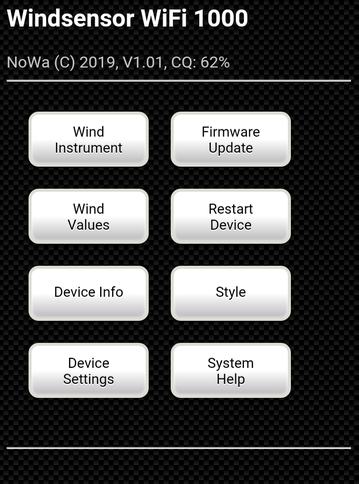
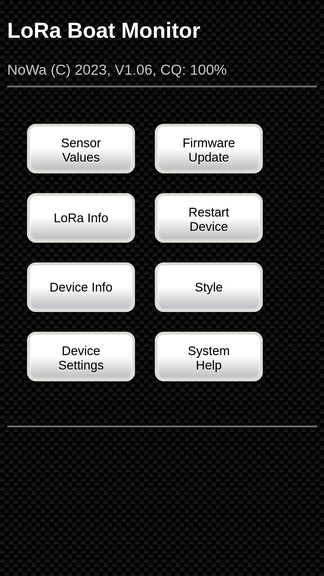
New online doku for V1.06

diff --git a/docs/public/index_V1.06.html b/docs/public/index_V1.06.html
@@ -3,7 +3,7 @@
 <head>
 <title>LoRa Boat Monitor</title>
 <link rel="shortcut icon" type="image/x-icon" href="./favicon.ico">
-<link rel="stylesheet" type="text/css" href="https://norbertwalter67.gitlab.io/plain-html/style.css">
+<link rel="stylesheet" type="text/css" href="https://norbert-walter.github.io/LoRa-Boat-Monitor/public/style.css">
 <meta http-equiv="content-type" content="text/html; charset=UTF-8">
 <meta name=viewport content="width=device-width, initial-scale=1">
 <style>table,th, td {padding: 5px;}</style>
@@ -11,39 +11,89 @@
 <body>
 <h2>LoRa Boat Monitor</h2>NoWa (C) 2021, V1.06
 <hr align="left">
-<h3>LoRa Boat Monitor Documentation</h3>
-For proper operation the Windsensor requires a web browser with HTML5, JavaScript and Canvas, as supported by all actual browsers. Please check  browser security settings in case of malfuntions.
-<h3>Main Page</h3>
+<h2>LoRa Boat Monitor Documentation</h2>
+For proper operation the LoRa boat monitor requires a web browser with HTML5, JavaScript and Canvas, as supported by all actual browsers. Please check  browser security settings in case of malfuntions.
+<h2>Main Page</h2>
 The main page provides buttons to access sub pages serving different purposes. The status bar displays copyright, version number and WLAN connection quality in percent.
 <br><br><img src="pictures_V1.06/Main.png" alt="Main Page">
-<h3>Wind Instrument</h3>
-This page displays the simple Windsensor instrument type with a wind direction pointer. Inside the circle live values are shown. To change windspeed unit and down wind area (gray bottom area) refer to the Device Settings page. The user may choose between two instrument layouts (see Settings). Both instrument designs are stored in the device's memory.
-<br><br><img src="pictures_V1.06/Instrument1.png" alt="Wind Instrument">
-<br><br>The complex wind sensor instrument type for relative winds with a beautified surface looks like this:
-<br><br><img src="pictures_V1.06/Instrument2.png" alt="Complex Wind Instrument Picture">
+<h3>Sensor Value</h3>
+This page shows all readings from the sensors. Depending on which sensors are active, the number of measured values displayed may vary.
+<br><br><img src="pictures_V1.06/Sensor_Value_1.png" alt="Sensor Values">
 
-<br><br>For true winds change the design of instrument:
-<br><br><img src="pictures_V1.06/Instrument3.png" alt="Complex Wind Instrument Picture">
+<h4>Environment</h4>
+This shows all values from BME280 environment sensor.
+<br><br><b>Temp:</b> Air temperature in °C or K
+<br><br><b>Press:</b> Air pressure in mbar
+<br><br><b>Hum:</b> Air humidity in %
+<br><br><b>Dew:</b> Dewpoint in °C or K
 
-<h3>Wind Values</h3>
-This screen displays apparent wind angle (AWA) and apparent windspeed values (AWS).
-<br><br><img src="pictures_V1.06/Value.png" alt="Wind Values">
-<h3>Device Info</h3>
-This screen provides an overview of all relevant Windsensor's data grouped in different sections.
-<br><br><img src="pictures_V1.06/Info1.png" alt="Info Page">
-<br><br><img src="pictures_V1.06/Info2.png" alt="Info Page">
+<h4>Position Speed Course</h4>
+<b>Lat:</b> Latitude geographic position
+<br><br><b>Lon:</b> Longitude geographic position
+<br><br><b>Alt:</b> Altitude on geographic position
+<br><br><b>Spd:</b> Speed in kn
+<br><br><b>Crs:</b> Course in degree
+
+<br><br><img src="pictures_V1.06/Sensor_Value_2.png" alt="Sensor Values">
+
+<h4>Date Time Daylight</h4>
+<b>Date:</b> Date of day
+<br><br><b>Time:</b> Actual time
+<br><br><b>Sunrise:</b> Sunrise of day
+<br><br><b>Sunset:</b> Sunset of day
+
+<h4>Battery</h4>
+<b>Volt:</b> Actual voltage in V
+<br><br><b>Cap:</b> Current level of the battery
+<br><br><b>Temp:</b> Battery temperature measured with a 1Wire sensor DS18B120
+
+<h4>Levels</h4>
+Tank levels of water and fuel measured with a 180 ohm level sensor.
+<br><br><b>Water:</b> Water level in %
+<br><br><b>Fuel:</b> Fuel level in %
+
+<br><br><img src="pictures_V1.06/Sensor_Value_3.png" alt="Sensor Values">
+
+<h4>Control</h4>
+<b>Alarm:</b> Status alarm input on/off
+<br><br><b>Relay:</b> Status relay input on/off
+<br><br><b>OnTime:</b> Duration of switching on
+
+
+<h2>LoRa Info</h2>
+This screen displays actual LoRa values.
+<br><br><img src="pictures_V1.06/LoRa_Info.png" alt="LoRa Info">
+
+<h4>LoRa Info</h4>
+<b>Freq Region:</b> Frequency region in which LoRa is used. Depending on the geographical region, different frequencies and transmission schemes are used.
+<br><br><b>Device Addr:</b> Device address of the LoRa boat monitor.
+<br><br><b>Actual Chan:</b> Actual used LoRa channel (1...8)
+<br><br><b>Actual SF:</b> Actual used spreading factor for LoRa signal (7...12)
+<br><br><b>TX Interval:</b> Transmit interval for LoRa telegrams in s
+<br><br><b>Time Slot:</b> The transmission of LoRa telegrams is divided into 12 time slots. The time slot in which the transmission is currently active is displayed here. Depending on the operating mode, different spreading factors are used for each time slot.
+<br><br><b>TX Counter:</b> Transmission counter since the start of the LoRa boat monitor. This counter is transmitted to the LoRa network. This can be used to detect whether telegrams have been lost. After a device restart, the counter is reset.
+
+
+<h2>Device Info</h2>
+This screen provides an overview of all relevant LoRa boat monitor data grouped in different sections.
+<br><br><img src="pictures_V1.06/Device_Info_1.png" alt="Device Info">
 <br>
+
 <h4>Firmware Information</h4>
 <b>Firmware Version</b> Version of ESP8266 real time kernel.
 <br><br><b>License Type</b> CC-BY-NC-ND.
-<h4>ESP8266 Informations:</h4>
+<h4>ESP32 Informations:</h4>
 <b>SDK Version:</b> Version of software development kit used to build the ESP8266 real time kernel.
-<br><br><b>ESP8266 Chip ID:</b> Unique ID equivalent to a serial number.
-<br><br><b>ESP8266 Speed:</b> Current CPU speed.
+<br><br><b>ESP32 Chip ID:</b> Unique ID equivalent to a serial number.
+<br><br><b>ESP32 Speed:</b> Current CPU speed.
 <br><br><b>Free Heap Size:</b> Internal free memory (RAM) available for dynamic values and variables. In case of problems please check free heap size.
-<h4>Network Parameter:</h4>
-<b>Hostname:</b> Hostname of the Windserver. The hostname is a combination from name windsensor and Sensor ID. You can using this name in the following URL: http://windsensor-0 for a wind sensor with the Sensor ID 0. If you using more than one wind sensor then select for each windsensor a different Sensor ID (reffer Device Setings).
-<br><br><b>mDNS Name:</b> Multicast DNS name. You find the wind sensor with this name in the local network. You don't need a IP address. The multicast DNS name is usable if the mDNS service is activated (refer Device Settings).
+
+<br><br><img src="pictures_V1.06/Device_Info_2.png" alt="Device Info">
+<br>
+
+<h4>Network Parameter</h4>
+<b>Hostname:</b> Hostname of the LoRa boat monitor. The hostname is a combination from name boat monitor and Sensor ID. You can using this name in the following URL: http://boatmonitor-0 for a device with the Sensor ID 0. If you using more than one device then select for each device a different Sensor ID (reffer Device Setings).
+<br><br><b>mDNS Name:</b> Multicast DNS name. You find the LoRa boat monitor with this name in the local network. You don't need a IP address. The multicast DNS name is usable if the mDNS service is activated (refer Device Settings).
 <br><br><b>WLAN Server SSID:</b> SSID of WLAN run by the Windserver.
 <br><br><b>WLAN Server IP:</b> IP-adress of WLAN server run by the Windsensor.
 <br><br><b>Activ AP Channel:</b> Actual used Access Point channel.
@@ -51,96 +101,135 @@ This screen provides an overview of all relevant Windsensor's data grouped in di
 <br><br><b>WLAN Client IP:</b> Client IP adress in WLAN the Windsensor is connected to.
 <br><br><b>Client Field Strength:</b> WLAN field strength in dBm. It indicates wireless connection quality.
 <br><br><b>Connection Quality:</b> Quality value in percent for the wireless connection.
-<h4>Device Information:</h4>
-<b>Device Temperature:</b> Internal device temperature.
-<br><br><b>Wind Direction:</b> Apparent wind angle (relative to the bow - AWA).
-<br><br><b>Resolution Wind Direction:</b> Current wind direction resolution. Resolution depends on windspeed. A higher windspeed will enhance resolution. Please refer to the user manual for details.
-<br><br><b>Wind Speed:</b> Apparent windspeed (relative to the boat - AWS).
-<br><br><b>Down Wind Speed:</b> Virtual Windsensor for down windspeed. For more details please refer to 'Device Settings'.
-<br><br><b>Sensor 1 (Speed):</b> Actual output status of Hall sensor 1.
-<br><br><b>Sensor 2 (Direction):</b> Actual output status of Hall sensor 2.
-<br><br><b>Pulse Counter:</b> Count the number of pulse per revolution for the wind direction sensor. This is helpfully to control the correct Hall sensor and metal shield function. With rotating wind wheel the pulse counter must be constant at 1. If the value is greater than 1, the aperture does not switch correctly and the magnet may have to be readjusted. If the value is 0, the sensor does not switch or the wind wheel does not turn. The pulse counter is a good indicator for checking the correct sensor function. For additional tests the diagnostic mode can be activated. Then a more detailed graphical diagnosis with a software oscilloscope can be made with an external diagnosis tool (see also Diagnosis Mode).
-<br><br><b>Time 1 (Speed):</b> Time measured per rotation of Hall sensor 1.
-<br><br><b>Time 2 (Direction):</b> Time measured between Hall sensor 1 and Hall sensor 2.
-<br><br><b>Rotation Speed:</b> Rotation speed of anemometer wheel.
-<h4>Device Settings</h4>
+
+<h4>LoRa Parameter</h4>
+<b>Device Address:</b> Device address of the LoRa boat monitor.
+<br><br><b>Actual Channel:</b> Actual used LoRa channel (1...8)
+<br><br><b>Actual SF:</b> Actual used spreading factor for LoRa signal (7...12)
+<br><br><b>TX Interval:</b> Transmit interval for LoRa telegrams in s
+<br><br><b>Time Slot:</b> The transmission of LoRa telegrams is divided into 12 time slots. The time slot in which the transmission is currently active is displayed here. Depending on the operating mode, different spreading factors are used for each time slot.
+<br><br><b>TX Counter:</b> Transmission counter since the start of the LoRa boat monitor.
+
+<br><br><img src="pictures_V1.06/Device_Info_3.png" alt="Device Info">
+<br>
+
+<h4>Device Information</h4>
+<b>Latitude:</b> Latitude geographic position
+<br><br><b>Longitude:</b> Longitude geographic position
+<br><br><b>Altitude:</b> Altitude on geographic position
+<br><br><b>Air Temperature:</b> Air temperature in °C or K
+<br><br><b>Air Pressure:</b> Air pressure in mbar
+<br><br><b>Air Humidity:</b> Air humidity in %
+<br><br><b>Dewpoint:</b> Dewpoint in °C or K
+<br><br><b>Battery Voltage:</b> Actual battery voltage in V
+<br><br><b>1Wire Temp:</b> Temperature measured with a 1Wire sensor DS18B120
+<br><br><b>Tank 1:</b> Level sensor for tank 1 as raw value in V 
+<br><br><b>Tank 2:</b> Level sensor for tank 2 as raw value in V 
+<br><br><b>Alarm:</b> Status alarm input on/off
+<br><br><b>Relay:</b> Status relay input on/off
+<br><br><b>Relay Timer:</b> Duration of switching on
+<br><br><b>Env Sensor:</b> Type of environment sensor
+
+
+<h2>Device Settings</h2>
 <b>Attention:<br>
 This screen holds passwords - it is advised not to call this page while connected to public networks. Password transmission may not be safe in a public environment.</b>
-<br><br>This page permits changes to the Windsensor's settings.
-<br><br><img src="pictures_V1.06/Settings1.png" alt="Settings 1">
-<br><br><img src="pictures_V1.06/Settings2.png" alt="Settings 2">
-<br><br><b>Use Page Pasword:</b> Allows secure access via password to the web pages Device Settings, Firmware Update and Restart Device.
+<br><br>This page permits changes to the LoRa boat monitor settings.
+<br><br><img src="pictures_V1.06/Device_Settings_1.png" alt="Device Settings">
+
+<h4>Password Settings</h4>
+<b>Use Page Pasword:</b> Allows secure access via password to the web pages Device Settings, Firmware Update and Restart Device.
 <br><br><b>Page Password:</b> Password to access the secure web pages.
 <br><br> A password must be entered when accessing the secured pages. Only upper and lower case letters and numbers may be used. Special characters are not allowed. The password must consist of 8 to 20 characters.
-<br><br><img src="pictures_V1.06/Password.png" alt="Password">
-<br><br><b>Instrument Type:</b> Two types of instruments are available. The 'simple' type displays a lightweight grafic instrument, the 'complex' type emulates the look of a classic marine semianalog panel. Both layouts are held in the device's memory.
-<br><br><b>Instrument Size:</b> Change the size of instrument for optimal viewing on the browser in use. The setting applies to all devices connected. Unfortunately individual layout per display unit is not possible due to ESP restrictions.
-<br><br><b>WLAN Client SSID:</b> SSID of the external network used by the sensor to transmit raw data to OpenPlotter or other data servers.
+
+<h4>Display Settings</h4>
+<b>Instrument Size:</b> Change the size of instrument for optimal viewing on the browser in use. The setting applies to all devices connected. Unfortunately individual layout per display unit is not possible due to ESP restrictions.
+
+<br><br><img src="pictures_V1.06/Device_Settings_2.png" alt="Device Settings">
+<h4>Network Settings</h4>
+<b>WLAN Client SSID:</b> SSID of the external network used by the sensor to transmit raw data to OpenPlotter or other data servers.
 <br><br><b>WLAN Client Password:</b> Password to access the external network used by the sensor to transmit raw data to data servers (e.g. OpenPlotter).
 <br><br><b>Connection Timeout:</b> The wind sensor tries to establish a client connection until the timeout has expired. Notice: If no connection has been established, the web interface can only be reached after the timeout has expired. The timeout is useful when OpenPlotter and the wind sensor are switched on at the same time. The wind sensor starts faster and then tries to connect until the timeout expires. If the timeout is longer than the OpenPlotter's boot phase, the wind sensor can automatically log into the OpenPlotter's WLAN after switching on.
 <br><br><b>WLAN Server SSID:</b> SSID of the wireless network created by the windsensor to provide the web interface. You can use a mobile phone or tablet to display wind data.
 <br><br><b>WLAN Server Password:</b> Password of the wireless network created by the windsensor to provide the web interface.
-<br><br><b>AP Channel:</b> Access Point channel for WiFi network. Attention! The WiFi channel can only be freely set if the wind sensor is not connected to another WiFi network (e.g. OpenPlotter) .If the wind sensor is connected to another WiFi network, its channel is used.
+<br><br><b>AP Channel:</b> Access Point channel for WiFi network. Attention! The WiFi channel can only be freely set if the device is not connected to another WiFi network (e.g. OpenPlotter) .If the wind sensor is connected to another WiFi network, its channel is used.
 <br><br><b>Server Mode:</b>
-<b>'HTTP (JSON/NMEA)' </b>is the default value. The Windsensor provides a web interface with data formatted as JSON. This mode may also be used for other applications accepting JSON. In the same mode is it possible to transmit NMEA0183 data to applications like OpenPlotter on Port 6666. In this case the Windsensor serves as data server with OpenPlotter being the client.
+<b>'HTTP (JSON/NMEA)' </b>is the default value. The LoRa boat monitor provides a web interface with data formatted as JSON. This mode may also be used for other applications accepting JSON. In the same mode is it possible to transmit NMEA0183 data to applications like OpenPlotter on Port 6666. In this case the LoRa  boat monitor serves as data server with OpenPlotter being the client.
 With <b>'NMEA Serial'</b> you can setup a RS232 serial connection for NMEA0183 data transmission by wired cable. The mode supports also a serial debug mode for hardware debugging. In this case select and change the settings in <b>Serial Debug Mode</b>.
 <b>'MQTT'</b> Is reserved for future functions to connect to an MQTT server. Currently the function is not implemented.
-<b>'Diagnostic'</b>In diagnostic mode, more in-depth functions of the wind sensor can be checked. A software oscilloscope has been integrated into the wind sensor to display the digital sensor data over time. This enables a simple control of the sensor function without having to connect a hardware oscilloscope to the IC pins. The oscilloscope data is transferred via a JSON interface to an external diagnostic tool and displayed there. The diagnostic tool can be downloaded here: <a href="https://gitlab.com/norbertwalter67/Windsensor_WiFi_1000/tree/master/Diagnostic%20Tool">Diagnostic Tool on GitLab</a>
-Additional information on the tests can be found in the description of the diagnostic tool.
-When set to <b>'Demo Mode'</b> the Windsensor provides demo data using HTTP (JSON/NMEA) data format.
-<br><br><b>nDNS Service:</b> Avtivate the mDNS servive for the local network. The wind sensor supports a hostname (e.g. windsensor-0.local). You can connect the wind sensor with this name in the local network. The mDNS service supports also different network services for HTTP and NMEA0183 connections. In the navigation software AVnav you can very easy directly connect the wind sensor without any IP and port declaration as Zero-Config.
-<br><br><b>Serial Debug Mode:</b> The Serial Debug Mode supports hardware debugging. You can monitor and control all Windsensor functions over a serial RS232 connection (RX,TX,GND). The output signal level is set to 3.3V TTL. Use a level shifter TTL/RS232-USB to connect with a PC. On PC side you can use a terminal program to display all ASCII debug information.
+<b>'Diagnostic'</b> The diagnostic mode is unused.
+<br><br><b>nDNS Service:</b> Activate the mDNS service for the local network. The LoRa boat monitor supports a hostname (e.g. boatmonitor-0.local). You can connect the device with this name in the local network. The mDNS service supports also different network services for HTTP and NMEA0183 connections. In the navigation software AVnav you can very easy directly connect the wind sensor without any IP and port declaration as Zero-Config.
+
+
+<br><br><img src="pictures_V1.06/Device_Settings_3.png" alt="Device Settings">
+<h4>LoRa Settings (ABP)</h4>
+<b>Device Address:</b> Device address of the LoRa boat monitor. The device address consists of 8 characters and must not be confused with the device EUI.
+<br><br><b>Network Session Key:</b> Network session key for LoRa TTN V3 network. The key consists of 32 characters.
+<br><br><b>Application Key:</b> Application key for LoRa TTN V3 network. The key consists of 32 characters.
+<br><br><b>Freq Region:</b> Frequency region in which LoRa is used. Depending on the geographical region, different frequencies and transmission schemes are used. Currently only the European region EU868 with 868 MHz transmission and reception frequency is used.
+<br><br><b>LoRa Channel:</b> LoRa channel selction (1...8) without or with dynamic channel hopping.
+<br><br><b>Spreading Factor:</b> Spreading factor selection for LoRa signal (7...10).
+<br><br><b>Dynamic SF:</b> Selection for dynamic spreading factor hopping. For more details see: <a href="https://open-boat-projects.org/en/lora-bootsmonitor/">GitHub repository</a>
+<br><br><b>TX Interval:</b> Transmit interval for LoRa telegrams as mutible of 30s.
+<br><br><b>Relay:</b> Manual opreation of relay.
+
+<br><br><img src="pictures_V1.06/Device_Settings_4.png" alt="Device Settings">
+<h4>Device Settings</h4>
+
+<b>Serial Debug Mode:</b> The Serial Debug Mode supports hardware debugging. You can monitor and control all Windsensor functions over a serial RS232 connection (RX,TX,GND). The output signal level is set to 3.3V TTL. Use a level shifter TTL/RS232-USB to connect with a PC. On PC side you can use a terminal program to display all ASCII debug information.
 <br><br><b>Serial Speed:</b> Serial Speed determines the RS232 line speed.
-<br><br><b>Sensor ID:</b> Unique ID of the Windsensor when multiple sensors are installed.
-<br><br><b>Wind Sensor Type:</b> Describes the type of wind transducer. At present just Windsensor NOWA1000 is available. Future versions may provide different sensors.
-<br><br><b>Send Wind Data:</b> Setting this value to 'true' enables wind data transmission. When set to 'false' data transmission will be stopped.
-<br><br><b>Wind Type:</b> Describes the type of wind for other applications. The Windsensor only measures apparent wind direction and speed relative to the boat. With 'true wind' however you can send the sensor's wind data using a different label in case your data processing application just accepts true wind data. In 'true wind' mode change the design of instrument to fix direction scale. This mode is usable for a weather station with stationary wind sensor.
-<br><br><b>Offset:</b> The offset value is used to correct the wind direction in case the wind sensor has not been aligned exactly midships. Valid values are -180°...+180°.
-<br><br><b>Average:</b> Factor for moving average calculation. Higher factors smoothen wind angle and speed values. Decrease the factor for more reactive values.
-<br><br><b>Speed Unit:</b> The selected unit will be used to display windspeed.
-<br><br><b>Down Wind Sensor:</b> Set to 'true' to use the Down Wind Sensor. This is a performance value indicating the unused windspeed. If the boat's speed is equal to windspeed, this value will be zero and Wind force is optimally used. Down Wind Sensor values will be calculated when wind hits from aft within the Down Wind Range, otherwise set to zero.
-<br><br><b>Down Wind Range:</b> Defines the wind range for down winds. Down wind range is shown in the bottom area of the grafic instruments.
-<br><br><b>Temp Sensor Type:</b> Select type of temperature sensor that may be optionally installed. In future applications we consider providing weather sensors.
-<br><br><b>Send Temp Data:</b> 'True' to enable temperature sensor data. 'False' to stop temperature data transmission.
-<br><br><b>Temp Unit:</b> Temperature unit to be displayed on all devices attached.
-<h4>Speed Sensor Calibration</h4>
-If necessary, the wind speed can be calibrated with the following two parameters to improve the measurement accuracy. For calibration the Speed Unit must be set to [m/s]. Afterwards, measurement data is recorded simultaneously with a reference measuring device and the wind sensor and entered in an Excel diagram. The measurement data are provided with a linear fit. The fit parameters are then the correction data for the slope and the offset. The horizontal axis contains the uncorrected wind speed data and the vertical axis contains the corrected data.
+<br><br><b>Sensor ID:</b> Unique ID of the LoRa boat monitor when multiple sensors are installed.
+<br><br><b>Device Type:</b> Describes the type of LoRa boat monitor device. At present just LoRa1000 is available. Future versions may provide different sensors.
+<br><br><b>Send LoRa:</b> Setting this value to 'true' enables LoRa data transmission. When set to 'false' data transmission will be stopped.
+<br><br><b>Send NMEA0183:</b> If enabled then send LoRa boat monitor data as NMEA0183 telegrams.
+<br><br><b>Average Volatge:</b> Factor for moving average calculation. Higher factors smoothen wind angle and speed values. Decrease the factor for more reactive values.
+<br><br><b>Average Tank1:</b> Factor for moving average calculation. Higher factors smoothen wind angle and speed values. Decrease the factor for more reactive values.
+<br><br><b>Average Tank2:</b> Factor for moving average calculation. Higher factors smoothen wind angle and speed values. Decrease the factor for more reactive values.
+<br><br><b>Temp Sensor Type:</b> Temperature sensor type. Actual only supports the DS18B20. In future applications we consider providing other sensors.
+<br><br><b>Temp Unit:</b> The selected unit will be used to display temperature.
+<br><br><b>Env Sensor Type:</b> Environment sensor type. Actual supports BME280, VEdirect_Read, VEdirect_Write. With VEdirect the device can read and write VE.direct data from Victron. If VEdirect_Write is activated, the device behaves like a Victron battery monitor BMV-712 smart. All data read from VE.direct is also exported via NMEA0183.
+
+
+
+<br><br><img src="pictures_V1.06/Device_Settings_5.png" alt="Device Settings">
+<h4>Calibration Settings</h4>
+If necessary, the measured values can be calibrated with the following free parameters to improve the measurement accuracy. The following correction function is used for this: y=A2*x*x+A1*x+Offset. A2=0.0, A1=1.0 and Offset=0.0 must be set for a calibration. The measurement data are then recorded simultaneously with a reference measuring device and entered in an Excel chart. The measurement data are provided with a linear or quadratic fit. The fit parameters are then the correction data for A2, A1 and the offset. The horizontal axis contains the uncorrected readings and the vertical axis contains the corrected readings.
 <br><br><img src="pictures_V1.06/Excel.png" alt="Calibration curv with fit">
-<br><br><b>Calibration Slope:</b> Calibration slope is a factor with which the measured values can be increased or decreased.
-<br><br><b>Calibration Offset:</b> Calibration Offset is a fixed value which is added to the measurement data.
-<h3>Firmware Update</h3>
-This page allows updating the Windsensor's firmware in two variants. The latest actual firmware is displayed. Download the latest firmware and save it. Then select the new firmware file and click button 'Update Firmware'. Please be careful to enter the right filename extension (<b>wsb</b>) for firmware update. Success status will be displayed upon completion. OK indicates a successful update. Otherwise an error information will be shown.
-<b>Caution! By loading an incorrect or corrupted file the Windsensor will not work and may require a manufacturer service.</b> The Windsensor reboot automatically after successful firmware update.
-<br><br><img src="pictures_V1.06/Firmware.png" alt="Firmware Update">
+<br>Fig.: Sample for a linear fit (A2=0.0, A1=0,8413, Offset=1,1786)
+<br><br><b>Voltage A2:</b> Calibration slope is a second factor for a quadratic fit. Set A2=0.0 for a linear fit. The default value is 0.0.
+<br><br><b>Voltage A1:</b> Calibration slope is a first factor for a linear fit with which the measured values can be increased or decreased. The default value is 0.02861.
+<br><br><b>Voltage Offset:</b> Calibration Offset is a fixed value which is added to the measurement data. The default value is 6.47301.
+<br><br><b>Tank1 A2:</b> Calibration slope is a second factor for a quadratic fit. Set A2=0.0 for a linear fit. The default value is 0.0.
+<br><br><b>Tank1 A1:</b> Calibration slope is a first factor for a linear fit with which the measured values can be increased or decreased. The default value is 143.19740.
+<br><br><b>Tank1 Offset:</b> Calibration Offset is a fixed value which is added to the measurement data. The default value is 0.0.
+<br><br><b>Tank2 A2:</b> Calibration slope is a second factor for a quadratic fit. Set A2=0.0 for a linear fit. The default value is 0.0.
+<br><br><b>Tank2 A1:</b> Calibration slope is a first factor for a linear fit with which the measured values can be increased or decreased. The default value is 143.19740.
+<br><br><b>Tank2 Offset:</b> Calibration Offset is a fixed value which is added to the measurement data. The default value is 0.0.
+
+
+<h2>Firmware Update</h2>
+This page allows updating the LoRa boat monitor firmware in two variants. The latest actual firmware is displayed. Download the latest firmware and save it. Then select the new firmware file and click button 'Update Firmware'. Please be careful to enter the right filename extension (<b>bmb</b>) for firmware update. Success status will be displayed upon completion. OK indicates a successful update. Otherwise an error information will be shown.
+<b>Caution! By loading an incorrect or corrupted file the LoRa boat monitor will not work and may require a manufacturer service.</b> The device reboot automatically after successful firmware update.
+<br><br><img src="pictures_V1.06/Firmware_Update.png" alt="Firmware Update">
 <h3>Restart Device</h3>
 Allows the wind sensor to be restarted. Then you get to the start page.
-<br><br><img src="pictures_V1.06/Restart.png" alt="Restart Device">
-<h3>Style</h3>
+
+
+<br><br><img src="pictures_V1.06/Restart_Device.png" alt="Restart Device">
+<h2>Style</h2>
 You can toggle between three page styles. Click the button again to change to the next style. Beware that all changes will apply to all displays connected.
-<br><br><img src="pictures_V1.06/Main.png" alt="Dark Style">
-<br><br><img src="pictures_V1.06/Main_gray.png" alt="Withe Style">
-<br><br><img src="pictures_V1.06/Main_red.png" alt="Night Style">
-<h3>System Help</h3>
-Displays this help text. If you require more information, please refer to the project page on GitLab.
-<br><br><a href="https://gitlab.com/norbertwalter67/Windsensor_WiFi_1000"  target="_blank">Windsensor WiFi 1000</a>
-<h3>Thanks Note</h3>
+<br><br><img src="pictures_V1.06/Style_1.png" alt="Dark Style">
+<br><br><img src="pictures_V1.06/Style_2.png" alt="Withe Style">
+<br><br><img src="pictures_V1.06/Style_3.png" alt="Night Style">
+
+<h2>System Help</h2>
+Displays this help text. If you require more information, please refer to the project page on GitHub.
+<br><br><a href="https://github.com/norbert-walter/LoRa-Boat-Monitor">LoRa Boat Monitor</a>
+
+<h2>Thanks Note</h2>
 <table>
 <tr>
-<td><b>Benjamin Wagner</b></td>
-<td></td>
-<td>For the valuable tips regarding OnShape CAD system and 3D printing</td>
-</tr>
-<tr>
-<td><b>Kurt Georg Walter</b></td>
-<td></td>
-<td>For the 3D printer donation</td>
-</tr>
-<tr>
-<td><b>Jacob Schwarzmann</b></td>
-<td></td>
-<td>For the excellent manufacturing of all metal prototype parts</td>
-</tr>
-<tr>
+
 <td><b>Michael Satzinger</b></td>
 <td></td>
 <td>For software testing and translation support</td>
@@ -151,7 +240,7 @@ Displays this help text. If you require more information, please refer to the pr
 <td>For the nice canvas steelseries instrument library</td>
 </tr>
 <tr>
-<td><b>GitLab Team</b></td>
+<td><b>GitHub Team</b></td>
 <td></td>
 <td>For the project hosting platform and for hosting of software parts</td>
 </tr>
